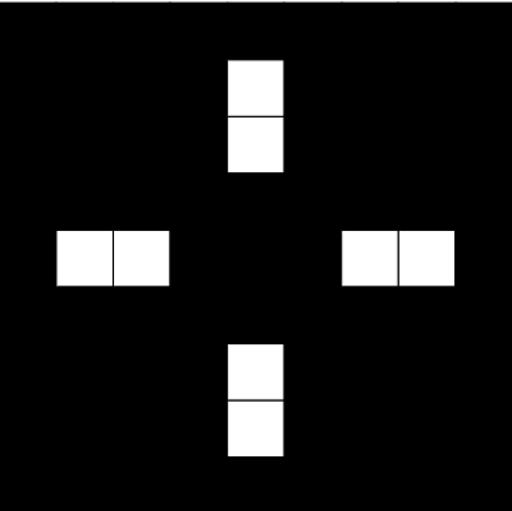
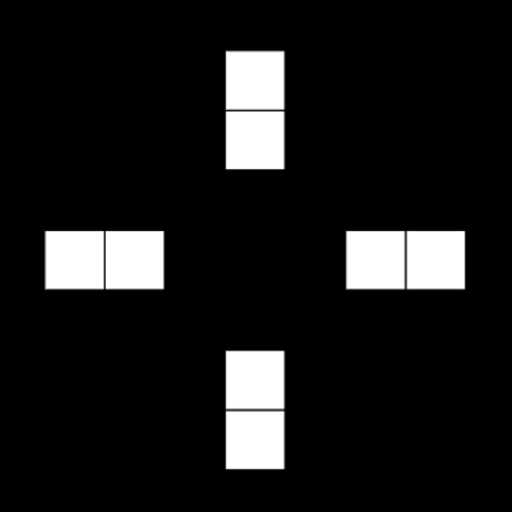
Add files via upload

diff --git a/MapScript.js b/MapScript.js
@@ -1,6 +1,7 @@
 	"use strict";
 	var mode=null;
-	var map; // CyclOSM map
+	var map; // Leaflet map
+	var scale; // scale bar
 	var x,y; 
 	var json;
 	var routing=false; // creating new route
@@ -18,7 +19,7 @@
 	var place={}; // place name, location, etc
 	var places=[]; // places resulting from 'find...' query
 	var nodes=[]; // array of route node locations
-	var unit='km.';
+	var unit='km';
 	var zoom=10;
 	var loc={};
 	var lastLoc={};
@@ -74,7 +75,6 @@
 		show('routing',false);
 		show('actionButton',true);
 		show('moreButton',true);
-		track.remove();
 	})
 	id('finishButton').addEventListener('click',finishRoute);
 	id('routesButton').addEventListener('click',listRoutes);
@@ -111,8 +111,10 @@
 		request.send();
 	})
 	id('unitButton').addEventListener('click',function(){
-		if(unit=='km.') unit='mi.';
-		else unit='km.'; // toggle distance unit
+		scale.remove();
+		if(unit=='km') unit='mi';
+		else unit='km'; // toggle distance unit
+		addScale();
 		id('unitButton').innerHTML='&nbsp;'+unit;
 		window.localStorage.setItem('unit',unit);
 		if(distance>0) {
@@ -143,7 +145,7 @@
 	show('moreControls',false);
 	show('routeButton',true);
 	show('routesButton',true);
-	// show('poiButton',true);
+	show('modeButton',true);
 	show('unitButton',true);
 	mode=window.localStorage.getItem('mode');
 	console.log('mode: '+mode);
@@ -162,8 +164,9 @@
 	if(zoom===null) zoom=10;
 	unit=window.localStorage.getItem('unit');
 	if(unit==null || !unit) {
-		unit='km.';
+		unit='km';
 		window.localStorage.setItem('unit',unit);
+		console.log('unit: '+unit);
 	}
 	json=JSON.parse(window.localStorage.getItem("mapRoutes"));
 	if(json!==null) {
@@ -173,6 +176,7 @@
 	console.log('unit: '+unit);
 	id('unitButton').innerHTML='&nbsp;'+unit;
 	map=L.map('map',{zoomControl: false}).setView([lat,lng],zoom); // default location in Derbyshire
+	addScale();
 	setMode();
 	map.on('moveend',saveLoc);
 	map.on('zoom',function(){
@@ -719,11 +723,16 @@
     	a.click();
 	}
     // UTILITY FUNCTIONS
+    function addScale() {
+    	var options={'position':'topright','metric':(unit=='km'),'imperial':(unit=='mi')};
+		scale=L.control.scale(options);
+		scale.addTo(map); // scale bar
+    }
 	function decimal(n) {
 	    return Math.floor(n * 10 + 0.5) / 10;
 	}
 	function show(element,visible) {
-		console.log('show? '+visible+': '+element);
+		console.log('show '+element+' - '+visible);
 	    id(element).style.display=(visible)?'block':'none';
 	}
 	function notify(note) {